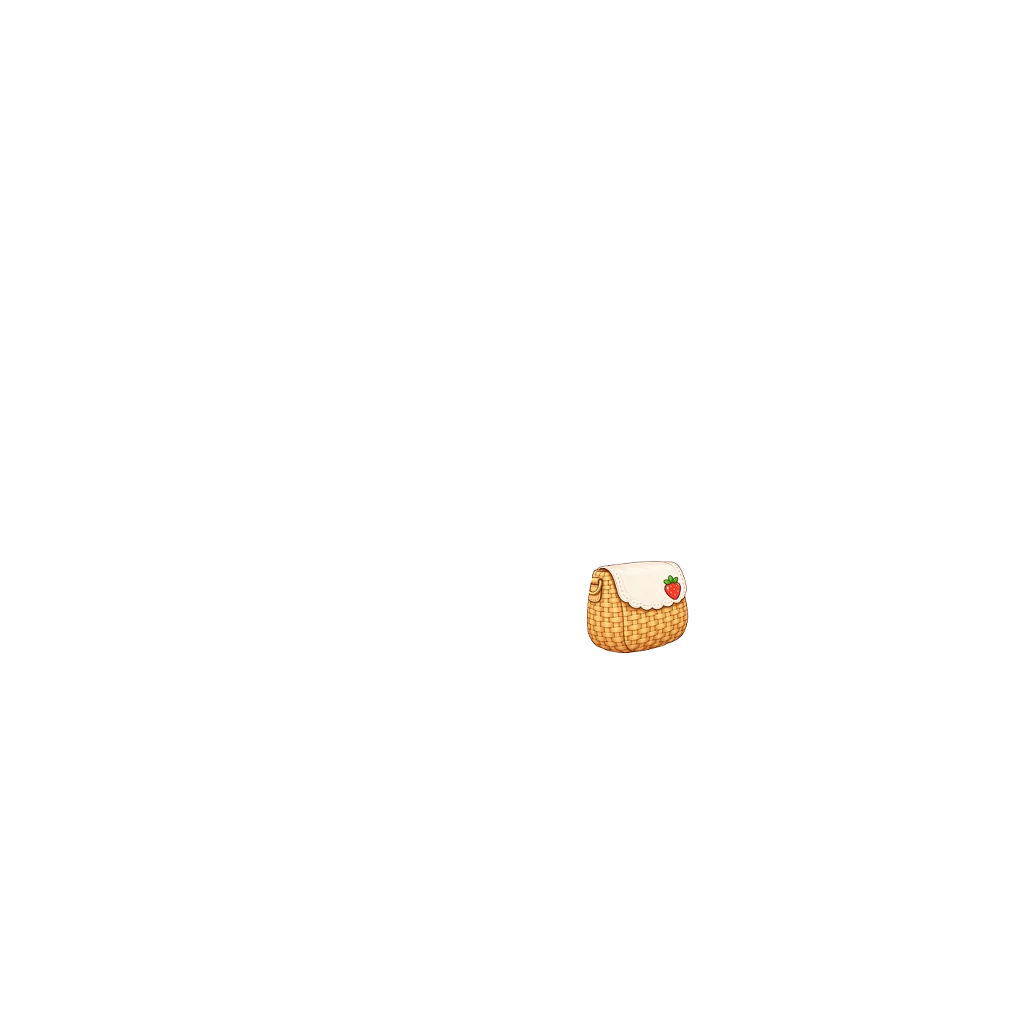
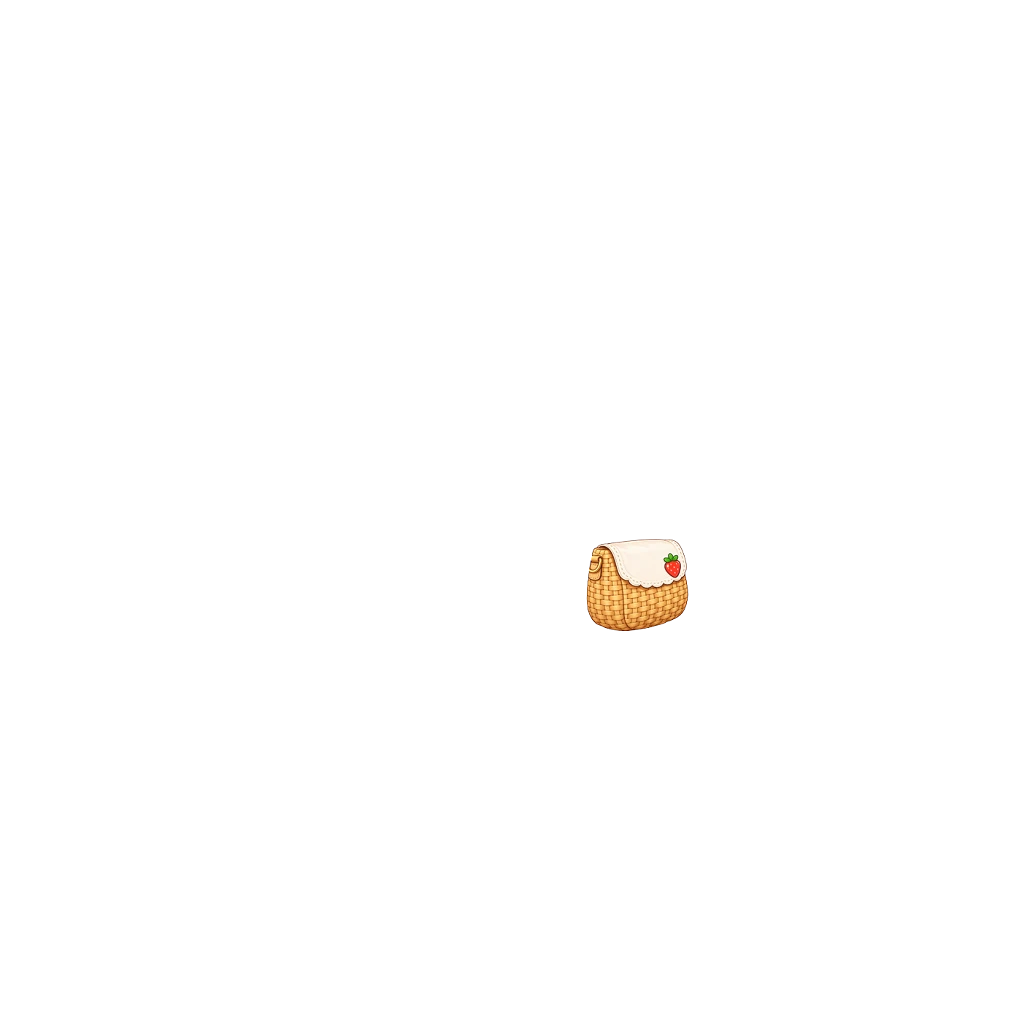
딸기 크로스백: 끈을 카라 바로 옆으로, 가방을 끈 아래에 붙임 (#976)
* 딸기 크로스백: 끈을 카라 바로 옆으로, 가방을 끈 아래에 붙임

끈 윗끝 왼쪽으로 6(574,382), 가방은 끈 아래끝이 가방 고리에 닿게 위로 22.

Claude-Session: https://claude.ai/code/session_018maNuYqDfFyRSe9uKpZhPR

* 딸기 크로스백 README 행에 위치 조정 기록

Claude-Session: https://claude.ai/code/session_018maNuYqDfFyRSe9uKpZhPR

---------

Changed region(s): [[0.5625, 0.5, 0.6875, 0.6562]]

diff --git a/src/data/avatarEquipment.js b/src/data/avatarEquipment.js
@@ -531,8 +531,9 @@ export const AVATAR_CATALOG = [
   /* 딸기 크로스백 [2026-10-10] — 여아. 라탄 가방(크림 덮개·딸기 장식, 사용자 원화 141×128) + 어깨끈(52×271) 두 장. 딸기 소풍룩과 짝.
      사용자 배치 참고 그림(얼굴 매칭 0.917)대로 — 왼쪽 어깨(552,386)에서 오른쪽 옆구리 가방 고리(598,592)로 끈을 늘이고(×0.789·-6.2°),
      가방은 배율 0.73·원점 (586,596). 가방은 몸 뒤(z 14, 손이 앞을 가린다), 끈은 맨 앞(zFront 48). 가방 상자 (586,596,689,689), 끈 상자 (547,386,605,595).
-     [2026-10-10] 사용자 조정 — 끈 윗끝을 목 카라 옆 어깨선(580,382)으로, 가방은 손끝보다 안 내려가게 위로 36(원점 (586,560), 끈 아래끝 (598,556)). 가방 상자 (586,560,689,653), 끈 상자 (572,382,604,558). img ?v=2. */
-  { id: "back_strawberry_girl", slot: "back", label: "딸기 크로스백", emoji: "🍓", price:DECOR_PRICE.rare, rarity: "rare", theme: "picnic", forGender: "girl", z: 14, img: "assets/avatar/back/strawberry-crossbag-girl.webp?v=2", imgFront: "assets/avatar/back/strawberry-crossbag-strap-girl.webp?v=2", zFront: 48, thumb: "assets/avatar/thumb/back_strawberry_girl.webp" },
+     [2026-10-10] 사용자 조정 — 끈 윗끝을 목 카라 옆 어깨선(580,382)으로, 가방은 손끝보다 안 내려가게 위로 36(원점 (586,560), 끈 아래끝 (598,556)). 가방 상자 (586,560,689,653), 끈 상자 (572,382,604,558). img ?v=2.
+     [2026-10-10] 끈 윗끝을 카라 바로 옆(574,382)으로 왼쪽 6, 가방은 끈 아래끝(596,560)이 가방 고리에 닿게 위로 22(원점 (586,538)). 가방 상자 (586,538,689,631), 끈 상자 (566,382,603,562). img ?v=3. */
+  { id: "back_strawberry_girl", slot: "back", label: "딸기 크로스백", emoji: "🍓", price:DECOR_PRICE.rare, rarity: "rare", theme: "picnic", forGender: "girl", z: 14, img: "assets/avatar/back/strawberry-crossbag-girl.webp?v=3", imgFront: "assets/avatar/back/strawberry-crossbag-strap-girl.webp?v=3", zFront: 48, thumb: "assets/avatar/thumb/back_strawberry_girl.webp" },
   /* 우주 부츠 — 우주복 바지 밑단(y1425 근처)에 발목깃이 물리게 맞췄다. */
   /* [2026-10-03] 새 원화로 교체 — 남색·흰 우주 부츠(하늘색 띠·주황 탭) 두 짝, 사용자 원화 352×173. 위 탑재값은 옛 판 기록.
      여아 신발과 같은 방식 — 두 짝을 따로 잘라 원화 부츠목 가운데(왼짝 x85 · 오른짝 x56.5)를 남아 다리 가운데(x450.5 · x574.5)에,

diff --git a/art-src/README.md b/art-src/README.md
@@ -638,5 +638,5 @@ bbox로 여백만 잘라내고 배포본은 높이 480px로 축소했다(전부 
 | wildflower-crossbag-back-girl-src.webp | **들꽃 크로스백 뒤장 원화 여아 (사용자 원화 2026-10-05)** — 오른쪽 뒤로 넘어가는 끈 조각 32×43(원래 원화 (169,170) 자리). 들꽃 탐험가 옷이 아닐 때 맨 뒤(z 14). 탑재 상자 (570,532,591,562) → 5% 크게·위로 5(배율 0.734) (575,533,598,565) (img ?v=2) → 위로 5 더 (575,528,598,560) (img ?v=3) → 위로 2 더 (575,526,598,558) (img ?v=4) → 위로 2 더 (575,524,598,556) (img ?v=5) → 왼쪽 2·위로 1 (573,523,596,555) (img ?v=6) | avatar/back/wildflower-crossbag-back-girl.webp |
 | sea-tank-boy-src.webp | **바다 산소통 원화 남아 — 산소통 (사용자 원화 2026-10-05)** — 흰 산소통(노란 띠·게이지). 등 뒤 맨 뒤 z 12. 참고 그림 얼굴 매칭 0.847로 위치, 배율 0.524·원점 (599,361). 탑재 상자 (599,361,702,588) → 왼쪽으로 4 (595,361,698,588) (img ?v=2). 상점 그림은 원화를 세로 160px 로 | avatar/hand/sea-tank-boy.webp · thumb/hand_tank_boy.webp |
 | sea-tank-straps-boy-src.webp | **바다 산소통 원화 남아 — 어깨끈 (사용자 원화 2026-10-05)** — 남색 끈 두 줄·흰 버클. 맨 앞 zFront 48. 참고 그림 매칭 0.967, 배율 0.700×0.658·원점 (420,431). 탑재 상자 (420,431,618,544) → 위로 10·후드 맨 아래 라인에 맞춰 윗끝 자름·오른쪽 끈 왼쪽으로 5 (420,427,613,534) (img ?v=2) | avatar/hand/sea-tank-straps-boy.webp |
-| strawberry-crossbag-girl-src.webp | **딸기 크로스백 원화 여아 — 가방 (사용자 원화 2026-10-10)** — 라탄 가방·크림 덮개·딸기 장식, 딸기 소풍룩과 짝. 참고 그림(얼굴 매칭 0.917) 위치로 배율 0.73·원점 (586,596), 몸 뒤 z 14. 탑재 상자 (586,596,689,689) → 손끝보다 안 내려가게 위로 36(원점 (586,560)) (586,560,689,653) (img ?v=2). 상점 그림은 원화를 세로 160px 로 | avatar/back/strawberry-crossbag-girl.webp · thumb/back_strawberry_girl.webp |
-| strawberry-crossbag-strap-girl-src.webp | **딸기 크로스백 원화 여아 — 어깨끈 (사용자 원화 2026-10-10)** — 갈색 가죽끈. 왼쪽 어깨(552,386)→가방 고리(598,592)로 ×0.789·-6.2°, 맨 앞 zFront 48. 탑재 상자 (547,386,605,595) → 윗끝을 목 카라 옆 어깨선(580,382)·아래끝 (598,556) (572,382,604,558) (img ?v=2) | avatar/back/strawberry-crossbag-strap-girl.webp |
+| strawberry-crossbag-girl-src.webp | **딸기 크로스백 원화 여아 — 가방 (사용자 원화 2026-10-10)** — 라탄 가방·크림 덮개·딸기 장식, 딸기 소풍룩과 짝. 참고 그림(얼굴 매칭 0.917) 위치로 배율 0.73·원점 (586,596), 몸 뒤 z 14. 탑재 상자 (586,596,689,689) → 손끝보다 안 내려가게 위로 36(원점 (586,560)) (586,560,689,653) (img ?v=2) → 끈 고리에 닿게 위로 22(원점 (586,538)) (586,538,689,631) (img ?v=3). 상점 그림은 원화를 세로 160px 로 | avatar/back/strawberry-crossbag-girl.webp · thumb/back_strawberry_girl.webp |
+| strawberry-crossbag-strap-girl-src.webp | **딸기 크로스백 원화 여아 — 어깨끈 (사용자 원화 2026-10-10)** — 갈색 가죽끈. 왼쪽 어깨(552,386)→가방 고리(598,592)로 ×0.789·-6.2°, 맨 앞 zFront 48. 탑재 상자 (547,386,605,595) → 윗끝을 목 카라 옆 어깨선(580,382)·아래끝 (598,556) (572,382,604,558) (img ?v=2) → 윗끝 카라 바로 옆(574,382)·아래끝 (596,560) (566,382,603,562) (img ?v=3) | avatar/back/strawberry-crossbag-strap-girl.webp |
